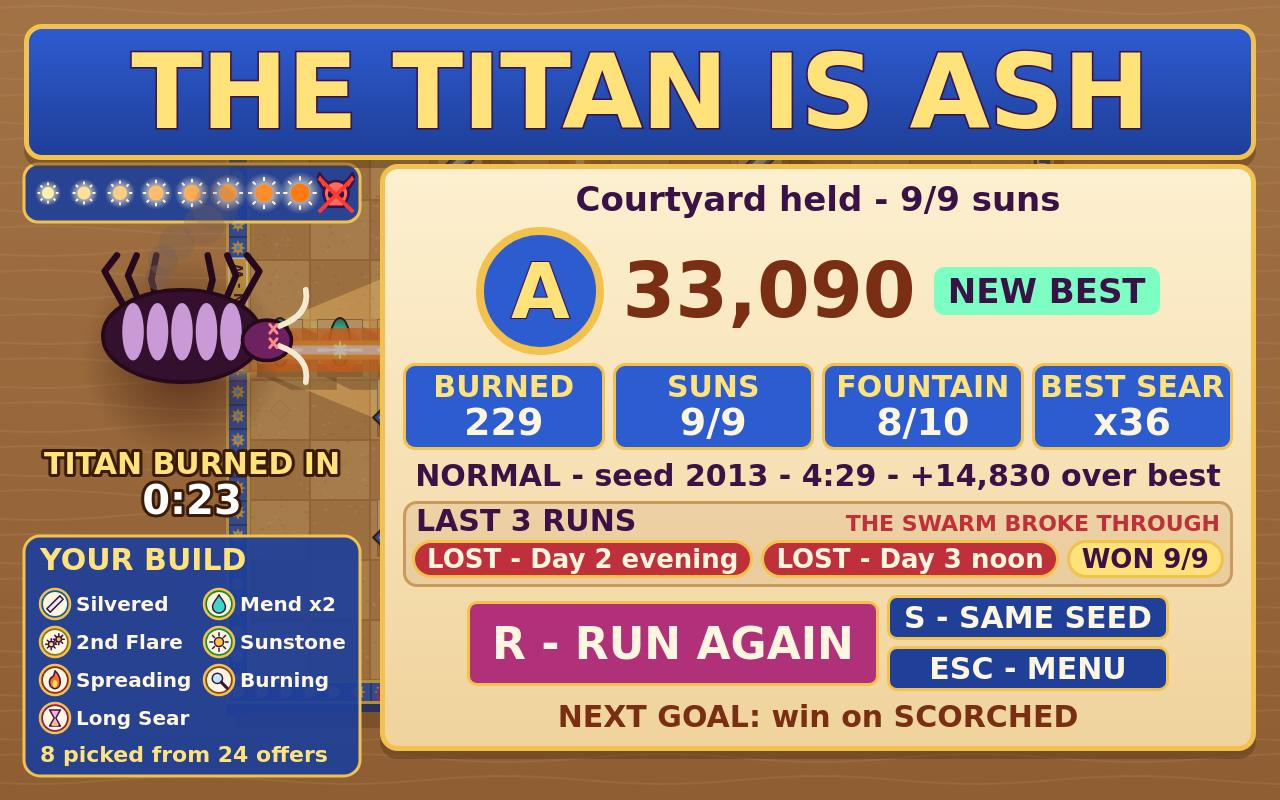
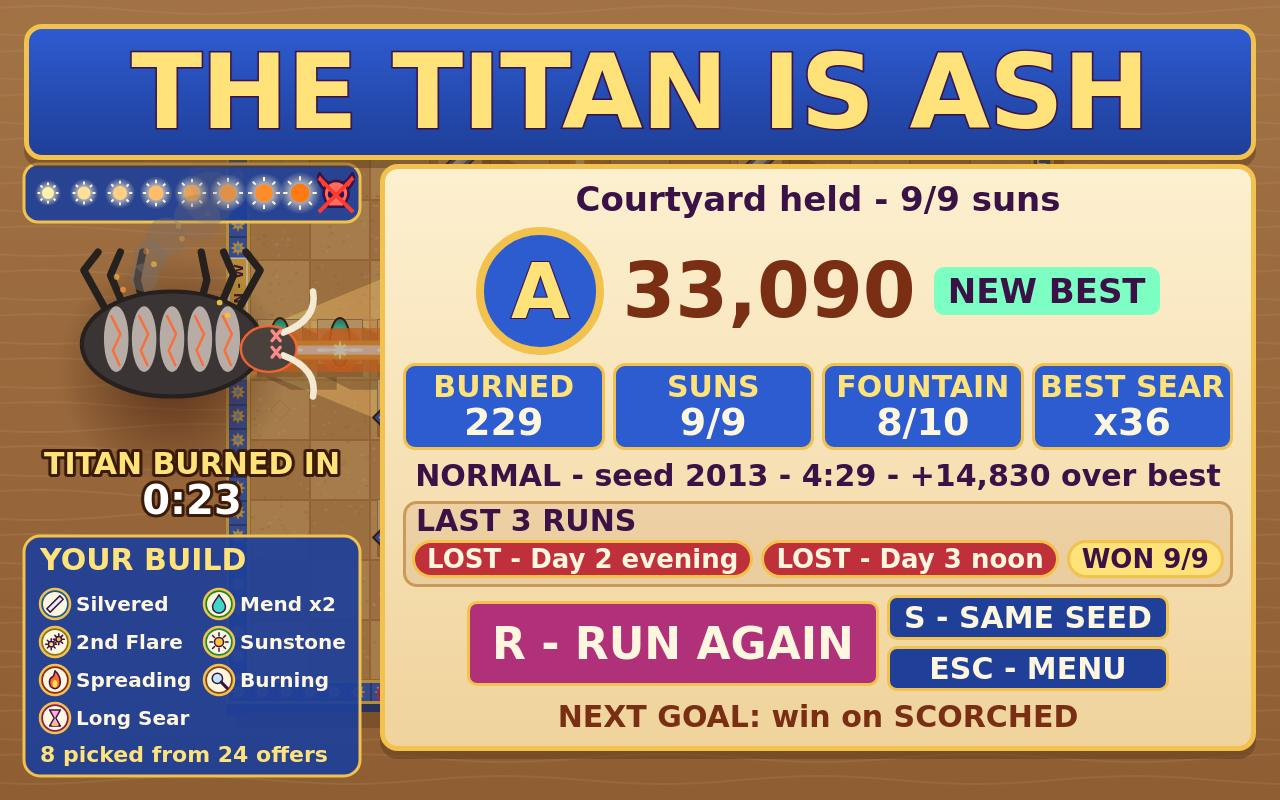
Win results: no lose title anywhere; the Titan is ashen (charcoal, glowing cracks, embers, smoke) and bigger, whole in the left column

Changed region(s): [[0.0625, 0.3125, 0.25, 0.5], [0.6562, 0.625, 0.9688, 0.6875], [0.125, 0.2188, 0.1562, 0.2812]]

diff --git a/game/src/render/results.js b/game/src/render/results.js
@@ -4,14 +4,13 @@
 import { NAMES, WAVE_COUNT } from '../config.js';
 import { boonById } from '../draft.js';
 import { drawCharmBadge } from './charms.js';
-import { BEETLE_COLORS } from './beetles.js';
 import { fitOption } from './fit.js';
 import { drawSunTrack } from './hud.js';
 import { VIEW_H, VIEW_W } from './layout.js';
 
-const HERO = { x: 182, y: 336 };
+const HERO = { x: 172, y: 344 };
 
-/** The Titan on its back: pale belly plates, legs kicked up, horns, smoke curling off it. */
+/** The Titan burned to ash, on its back: charcoal shell, ash-grey plates with glowing cracks, legs up, smoke and embers. */
 function drawTitanCarcass(ctx, x, y, s, time) {
   ctx.save();
   ctx.translate(x, y);
@@ -20,7 +19,7 @@ function drawTitanCarcass(ctx, x, y, s, time) {
   scorch.addColorStop(1, 'rgba(60,25,10,0)');
   ctx.fillStyle = scorch;
   ctx.fillRect(-150 * s, -110 * s, 300 * s, 280 * s);
-  ctx.strokeStyle = '#26091C';
+  ctx.strokeStyle = '#26201E';
   ctx.lineWidth = 9 * s;
   ctx.lineCap = 'round';
   for (const side of [-1, 1]) {
@@ -33,19 +32,30 @@ function drawTitanCarcass(ctx, x, y, s, time) {
       ctx.stroke();
     }
   }
-  ctx.fillStyle = BEETLE_COLORS.titan.under;
+  ctx.fillStyle = '#3A3434';
   ctx.beginPath();
   ctx.ellipse(0, 0, 110 * s, 64 * s, 0, 0, Math.PI * 2);
   ctx.fill();
   ctx.lineWidth = 5 * s;
   ctx.stroke();
-  ctx.fillStyle = '#C99AD6';
+  ctx.fillStyle = '#B8ADA6';
   for (let k = -2; k <= 2; k++) {
     ctx.beginPath();
     ctx.ellipse(k * 34 * s, -6 * s, 15 * s, 40 * s, 0, 0, Math.PI * 2);
     ctx.fill();
   }
-  ctx.fillStyle = BEETLE_COLORS.titan.top;
+  // Ember cracks still glowing in the ash plates.
+  ctx.strokeStyle = `rgba(255,${130 + Math.round(Math.sin(time * 5) * 30)},50,0.9)`;
+  ctx.lineWidth = 3 * s;
+  for (let k = -2; k <= 2; k++) {
+    ctx.beginPath();
+    ctx.moveTo(k * 34 * s - 6 * s, -34 * s);
+    ctx.lineTo(k * 34 * s + 5 * s, -12 * s);
+    ctx.lineTo(k * 34 * s - 4 * s, 8 * s);
+    ctx.lineTo(k * 34 * s + 4 * s, 26 * s);
+    ctx.stroke();
+  }
+  ctx.fillStyle = '#4A403C';
   ctx.beginPath();
   ctx.ellipse(118 * s, 6 * s, 34 * s, 28 * s, 0, 0, Math.PI * 2);
   ctx.fill();
@@ -70,9 +80,17 @@ function drawTitanCarcass(ctx, x, y, s, time) {
   }
   for (let k = 0; k < 7; k++) {
     const t = (time * 0.35 + k / 7) % 1;
-    ctx.fillStyle = `rgba(120,95,85,${0.55 * (1 - t)})`;
+    ctx.fillStyle = `rgba(120,110,105,${0.55 * (1 - t)})`;
     ctx.beginPath();
     ctx.arc((k - 3) * 22 * s + Math.sin(t * 6 + k) * 10 * s, -60 * s - t * 170 * s, (14 + t * 26) * s, 0, Math.PI * 2);
+    ctx.fill();
+  }
+  // Embers drifting up out of the smoke.
+  for (let k = 0; k < 9; k++) {
+    const t = (time * 0.5 + k / 9) % 1;
+    ctx.fillStyle = `rgba(255,${150 + (k % 3) * 35},60,${1 - t})`;
+    ctx.beginPath();
+    ctx.arc((k - 4) * 18 * s + Math.sin(t * 8 + k * 2) * 14 * s, -30 * s - t * 140 * s, 3.5 * s, 0, Math.PI * 2);
     ctx.fill();
   }
   ctx.restore();
@@ -169,7 +187,7 @@ export function drawResultsHero(ctx, run, time) {
   ctx.stroke();
   drawSunTrack(ctx, 48, 193, 36, 12, run.stats.wavesCleared, won ? -1 : run.waveIndex);
   if (won) {
-    drawTitanCarcass(ctx, HERO.x, HERO.y, 0.72, time);
+    drawTitanCarcass(ctx, HERO.x, HERO.y, 0.82, time);
     if (run.stats.titanSeconds !== undefined) {
       caption(ctx, 'TITAN BURNED IN', 192, 474, 30, '#FFE27A');
       caption(ctx, clock(run.stats.titanSeconds), 192, 514, 40, '#FFFFFF');

diff --git a/game/src/ui/menus.js b/game/src/ui/menus.js
@@ -164,10 +164,9 @@ export function showResults(menus, run, record, history) {
   requestAnimationFrame(() => fitLabels(el('results-stats')));
   const delta = run.score - record.previousBest;
   el('results-meta').textContent = `${run.diff.name} - seed ${run.seed} - ${clock(run.time)} - ${delta >= 0 ? `+${delta.toLocaleString('en-US')} over best` : `${(-delta).toLocaleString('en-US')} under best`}`;
-  // LAST 3 RUNS strip: the label, the real lose title in small type when a run fell, one chip per run.
-  const losses = history.some((h) => h.outcome !== 'won');
+  // LAST 3 RUNS strip: the label and one chip per run (a fallen run's red chip says LOST - Day d phase).
   el('results-history').innerHTML = history.length
-    ? `<div class="strip-head"><b>LAST ${history.length} RUN${history.length > 1 ? 'S' : ''}</b>${losses ? `<small>${RESULT_LOSE_TITLE}</small>` : ''}</div>` +
+    ? `<div class="strip-head"><b>LAST ${history.length} RUN${history.length > 1 ? 'S' : ''}</b></div>` +
       `<div class="chips">${history.map((h) => `<span class="chip ${h.outcome === 'won' ? 'won' : 'fell'}">${historyChip(h)}</span>`).join('')}</div>`
     : '';
   el('results-next').textContent = nextGoal(run);

diff --git a/game/style.css b/game/style.css
@@ -105,7 +105,6 @@ kbd { display: inline-block; min-width: 30px; padding: 0 5px; font: 900 24px sys
 .history:empty { display: none; }
 .history .strip-head { display: flex; justify-content: space-between; align-items: baseline; gap: 12px; }
 .history .strip-head b { font: 900 30px system-ui, sans-serif; color: #3b1247; line-height: 1.15; }
-.history .strip-head small { font: 900 22px system-ui, sans-serif; color: #c0303a; white-space: nowrap; }
 .history .chips { display: flex; justify-content: center; gap: 8px; }
 .history .chip { font: 900 26px system-ui, sans-serif; padding: 1px 12px; border-radius: 20px; border: 3px solid #f2c14e; white-space: nowrap; }
 .history .fell { color: #fff6df; background: #c0303a; }

diff --git a/NOTES.md b/NOTES.md
@@ -244,6 +244,10 @@
   demo drops its fountain bites (no -1 FOUNTAIN or red flash on the title). Ticks found with a
   headless scan of the demo + fx.
 
+- Benchmark 6 item 4: win results carry no lose title (the strip is LAST 3 RUNS + chips; reverses
+  Bench5-2's caption). The Titan carcass is ash: charcoal shell, ash plates with glowing ember cracks,
+  embers rising through the smoke, drawn at 0.82 (about 235 px wide), whole in the left column.
+
 ## Next
 - Field benchmark 5: items 1-11 all committed (21:45 UTC). Open from older sections: staging below,
   Bench3-3 solved plan (6 stray panes on the cover), Bench3-5 board >= 58%.
